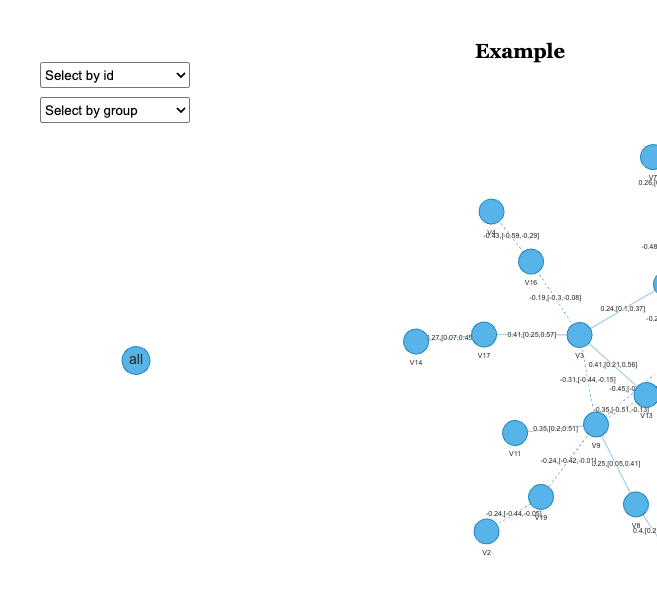
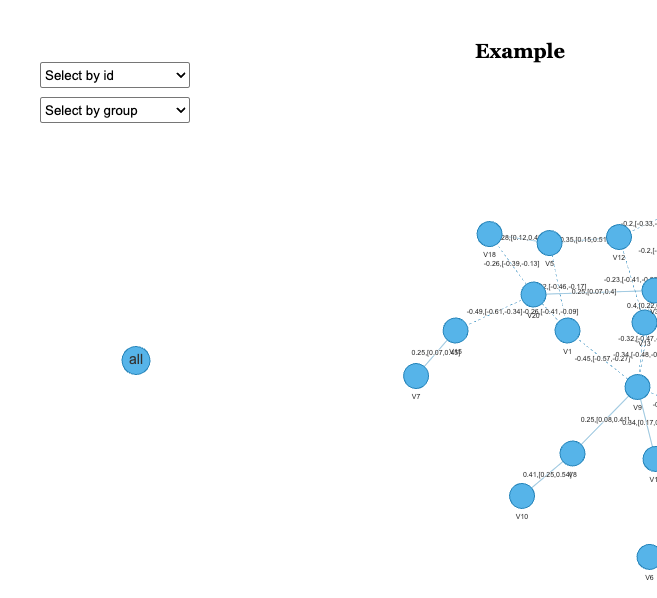
Add DOI

Changed region(s): [[0.6088, 0.3311, 1.0, 0.9632], [0.9741, 0.2408, 1.0, 0.3311]]

diff --git a/paper/paper.md b/paper/paper.md
@@ -5,15 +5,15 @@ authors:
   - name: Ziwei Huang
     orcid: 0009-0005-4879-8175
     affiliation: "1, 5"
-  
+
   - name: Zeyuan Song
     orcid: 0000-0002-7352-4177
     affiliation: "2, 3"
-  
+
   - name: Paola Sebastiani
     orcid: 0000-0001-6419-1545
     affiliation: "2, 3, 4"
-  
+
   - name: Stefano Monti
     orcid: 0000-0002-9376-0660
     affiliation: "5, 6, 7"
@@ -41,78 +41,102 @@ bibliography: references.bib
 
 # Summary
 
-RSNet is an open-source R package that provides a resampling-based framework for robust and interpretable network inference, designed to address the limited-sample-size challenges common in high-dimensional (e.g., ‘omics’) data. It supports both the estimation of partial correlation networks modeled as Gaussian networks [@whittaker2009graphical] and conditional Gaussian Bayesian networks for mixed data types that combine continuous and discrete variables [@lauritzen2001stable]. The framework incorporates multiple resampling strategies, including bootstrap, subsampling, and cluster-based approaches, to accommodate both independent and correlated (e.g., family-based) observations. To enhance interpretability, RSNet integrates graphlet-based topology analysis that captures higher-order connectivity and edge sign information, enabling single-node and subnetwork-level insights. Notably, RSNet is the first R package to efficiently construct signed graphlet degree vector matrices (GDVMs) in near-constant time for sparse networks, providing scalable analysis of higher-order network structure. Collectively, RSNet offers a versatile tool for statistically reliable and interpretable network inference in high-dimensional data.
+*RSNet* is an open-source R package that provides a resampling-based framework for robust and interpretable network inference, designed to address the limited-sample-size challenges common in high-dimensional (e.g., 'omics') data.
+It supports both the estimation of partial correlation networks modeled as Gaussian networks [@whittaker2009graphical] and conditional Gaussian Bayesian networks for mixed data types that combine continuous and discrete variables [@lauritzen2001stable].
+The framework incorporates multiple resampling strategies, including bootstrap, subsampling, and cluster-based approaches, to accommodate both independent and correlated (e.g., family-based) observations.
+To enhance interpretability, *RSNet* integrates graphlet-based topology analysis that captures higher-order connectivity and edge sign information, enabling single-node and subnetwork-level insights.
+Notably, *RSNet* is the first R package to efficiently construct signed graphlet degree vector matrices (GDVMs) in near-constant time for sparse networks, providing scalable analysis of higher-order network structure.
+Collectively, *RSNet* offers a versatile tool for statistically reliable and interpretable network inference in high-dimensional data.
+
 
 # Statement of need
 
-Network inference methods are widely used to model dependencies among variables in high-dimensional data, supporting discovery and hypothesis generation in diverse research domains [@federico2023structure; @fan2016overview; @friedman2008sparse; @friedman2000using]. Commonly applied approaches such as correlation or co-expression networks [@zhang2005general; @yang2014gene; @ruan2010general] are easy to implement but cannot distinguish direct from indirect dependencies [@federico2023structure]. In contrast, Gaussian networks, also known as partial correlation networks [@federico2023structure; @fan2016overview; @friedman2008sparse], and conditional Gaussian Bayesian networks (CGBNs)[@mcgeachie2014cgbayesnets; @bottcher2005learning] estimate conditional dependencies, offering a higher-resolution representation of complex systems. However, the reliability of inferred network structures is often compromised by the limited sample sizes in high-dimensional data, a challenge commonly referred to as the “small $n$, large $p$” problem, where $n$ denotes the number of samples and $p$ the number of variables [@federico2023structure; @friedman2008sparse; @friedman2000using; @kalisch2007estimating]. RSNet addresses this limitation by introducing a resampling-based framework that quantifies edge-level uncertainty and integrates information across multiple inferred networks to construct a robust consensus network. The framework supports both Gaussian networks for continuous data and CGBNs for mixed data types and can accommodate correlated or family-based observations [@song2025learning]. This design provides empirical confidence intervals, adjusted p-values, and edge-selection frequencies, offering a fine-grained assessment of network reliability and structure [@friedman2000using; @zhang2018silggm; @jankova2017honest].
+Network inference methods are widely used to model dependencies among variables in high-dimensional data, supporting discovery and hypothesis generation in diverse research domains [@federico2023structure; @fan2016overview; @friedman2008sparse; @friedman2000using].
+Commonly applied approaches such as correlation or co-expression networks [@zhang2005general; @yang2014gene; @ruan2010general] are straightforward to implement but cannot distinguish direct from indirect dependencies [@federico2023structure].
+In contrast, Gaussian networks, also known as partial correlation networks [@federico2023structure; @fan2016overview; @friedman2008sparse], and conditional Gaussian Bayesian networks (CGBNs) [@mcgeachie2014cgbayesnets; @bottcher2005learning] estimate conditional dependencies, offering a higher-resolution representation of complex systems.
+However, the reliability of inferred network structures is often compromised by the limited sample sizes in high-dimensional data, a challenge commonly referred to as the "small $n$, large $p$" problem, where $n$ denotes the number of samples and $p$ the number of variables [@federico2023structure; @friedman2008sparse; @friedman2000using; @kalisch2007estimating].
+*RSNet* addresses this limitation by introducing a resampling-based framework that quantifies edge-level uncertainty and integrates information across multiple inferred networks to construct a robust consensus network. The framework supports both Gaussian networks for continuous data and CGBNs for mixed data types and can accommodate correlated or family-based observations [@song2025learning]. This design provides empirical confidence intervals, adjusted p-values, and edge-selection frequencies, offering a fine-grained assessment of network reliability and structure [@friedman2000using; @zhang2018silggm; @jankova2017honest].
 
-In addition to improving reliability, RSNet enhances interpretability through graphlet-based topology analysis, which captures higher-order local connectivity patterns and incorporates edge sign information [@milenkovic2008uncovering; @das2019signed; @doria2020probabilistic]. These functionalities enable detailed examination of node-level structural roles and facilitate comparative analyses between networks inferred under different conditions [@tu2021differential; @gill2010statistical; @higgins2018differential]. Existing R packages for network inference do not support the construction of signed graphlet degree vector matrices (GDVMs), where brute-force enumeration has complexity greater than $O(p^{3})$, with $p$ denoting the network size. RSNet overcomes this barrier by combining state-of-the-art graphlet counting algorithms [@das2020efficient; @das2019algorithm; @hovcevar2016computation] with parallelization, establishing an efficient method to construct signed GDVMs in $O(∣d∣)$, where $∣d∣$ is the average degree, resulting in near-constant time complexity for sparse networks.
-
-
-
-# Implementation
-
-
-## Overview
-
-RSNet provides a unified, resampling-based framework for network inference and analysis that supports both independent and correlated datasets. For independent observations, resampling is performed at the sample level, while for correlated or family-based data, it is conducted at the cluster level to avoid spurious edge discoveries driven by within-cluster dependencies [@song2025learning]. Resampling yields an ensemble of inferred networks, which are subsequently integrated to construct a consensus network that assigns edge-level reliability estimates.
-
-For Gaussian networks, these estimates include empirical confidence intervals and nominal or adjusted p-values; for conditional Gaussian Bayesian networks, they correspond to edge-selection frequencies. The resulting consensus network forms the basis for downstream analyses such as centrality analysis, community detection, graphlet-based topology analysis, and differential connectivity analysis (Figure 1).
+In addition to improving reliability, *RSNet* enhances interpretability through graphlet-based topology analysis, which captures higher-order local connectivity patterns and incorporates edge sign information [@milenkovic2008uncovering; @das2019signed; @doria2020probabilistic].
+These functionalities enable detailed examination of node-level structural roles and facilitate comparative analyses between networks inferred under different conditions [@tu2021differential; @gill2010statistical; @higgins2018differential].
+Existing R packages for network inference do not support the construction of signed graphlet degree vector matrices (GDVMs), where brute-force enumeration has complexity greater than $O(p^{3})$, with $p$ denoting the network size.
+*RSNet* overcomes this barrier by combining state-of-the-art graphlet counting algorithms [@das2020efficient; @das2019algorithm; @hovcevar2016computation] with parallelization, establishing an efficient method to construct signed GDVMs in $O(|d|)$, where $|d|$ is the average degree, resulting in near-constant time complexity for sparse networks.
 
 
-RSNet is organized into modular functions that enable flexible, end-to-end workflows from network inference to higher-order structural analysis. The framework supports parallel computing to accelerate large-scale analyses, making RSNet a reproducible, scalable, and efficient platform for high-dimensional network inference.
+# State of the field
 
-## Resampling-based framework
+*RSNet* provides a unified, resampling-based framework for network inference and analysis that supports both independent and correlated datasets.
+While packages with similar functionalities exist, they typically either focus on specific components of the workflow or do not support resampling-based strategies.
+These limitations can compromise the reliability of inferred network structures in high-dimensional settings with limited sample sizes and noisy data, as well as the interpretability of downstream analyses.
+In addition, the lack of support for cluster-based resampling approaches can lead to underestimation of variability, hence a false positive inflation, when analyzing correlated or family-based data [@song2025learning].
 
-RSNet implements multiple resampling strategies to enhance the stability and reliability of inferred network structures. For both Gaussian networks and conditional Gaussian Bayesian networks (CGBNs), users can choose among four general approaches: (1) unstratified bootstrap, (2) unstratified subsampling, (3) stratified bootstrap, and (4) stratified subsampling, depending on data characteristics and study design. 
-
-For Gaussian networks, RSNet additionally supports cluster-based resampling methods designed for correlated or family-based datasets, including (1) cluster bootstrap, which samples entire clusters with replacement to preserve intra-cluster dependencies, and (2) fractional cluster bootstrap, which samples a subset of clusters with replacement. These procedures are implemented in the function “ensemble_ggm()”, which leverages inference algorithms from the *SILGGM* package [@zhang2018silggm]. For CGBNs, the function “ensemble_cgbn()”, provides analogous resampling-based network inference using algorithms from the *RHugin* package [@kalisch2007estimating].
-
-The resampling module supports parallel computing, enabling efficient large-scale network inference and ensuring scalability across high-dimensional datasets.
-
-## Consensus network construction
-
-The ensemble of networks generated from resampling iterations is integrated to construct a consensus network, thereby mitigating noise and reducing numerical instability. The Gaussian consensus network is constructed using the function “consensus_net_ggm()”, which computes confidence intervals and both nominal and adjusted p-values for each edge, while supporting thresholding based on effect size and statistical significance. The conditional Gaussian Bayesian consensus network is generated using “consensus_net_cgbn()”, which calculates selection frequencies, the proportion of resampling iterations in which an edge is identified, and outputs a directed acyclic graph (DAG). The method also supports computing Markov-blanket [@friedman2000using; @gao2016efficient] frequencies between incident nodes, which can be used to generate an undirected network representation.
-
-## Graphlet degree vector matrix and graphlet correlation matrix
-
-Graphlets are small connected non-isomorphic induced subgraphs that capture higher-order connectivity patterns within a network [@milenkovic2008uncovering]. For graphlets containing between two and four nodes, there are eight unique structures and fifteen corresponding automorphism orbits (Figure 2A). The graphlet degree vector (GDV) of a node counts how many times the node participates in each orbit, generalizing the concept of node degree to higher-order structures [@milenkovic2008uncovering]. Collectively, these vectors form a graphlet degree vector matrix (GDVM) of dimension $p \times O$, where $p$ denotes the number of nodes and $O$ the number of orbits. 
-
-RSNet extends this framework to signed networks, incorporating edge sign information (positive or negative partial correlations) into graphlet enumeration [@das2020efficient]. Notably, the number of graphlets of size up to four and their orbits in unsigned networks is equivalent to the number of graphlets of size up to three in signed networks (Figure 2B) [@das2019algorithm], allowing a concise but informative representation of signed topologies [@das2020efficient; @das2019algorithm].
-
-The graphlet correlation matrix (GCM) provides a compact, embedding-based representation of network structure [@yaverouglu2014revealing]. It is constructed by computing pairwise Spearman correlations between the columns of the GDVM, yielding an $O \times O$ matrix that captures inter-orbit relationships [@yaverouglu2014revealing]. This embedding enables meaningful comparisons between networks of different sizes or densities on a common structural scale. The functions “gdvm_gcm()” and “signed_gdvm_gcm()” implement the computation of both GDVMs and GCMs for unsigned and signed networks, respectively.
-
-## Differential connectivity analysis
-
-Differential connectivity analysis is an essential application in network-based studies, designed to characterize the rewiring patterns of interactive entities across different conditions [@tu2021differential; @gill2010statistical; @zhang2018diffgraph]. Unlike univariate analyses that evaluate each feature independently, this approach captures integrative, system-level signals arising from the collective behavior of individual entities, thereby providing complementary insights into the underlying mechanisms. 
-
-Accurate estimation of the null distribution is critical for assessing statistical significance [@gill2010statistical]. However, for most network-based statistics, such as average shortest path length, modularity, and centrality measures, the null distribution is challenging to derive analytically [@shojaie2021differential]. Consequently, resampling-based approaches are indispensable for empirically estimating the null distribution [@pollard2004choice; @vavsa2022null]. RSNet supports permutation [@pesarin2010permutation; @van2023comparing]- and bootstrap-based [@karlsson2009bootstrap; @efron1982jackknife] null distribution generation for a broad range of network statistics, including standard metrics (e.g., centralities, modularity, clustering coefficient) and GDV distances to enable differential comparisons at the single-node level. These procedures are implemented in the functions “null_ggm()”, “diff_centrality()” and “diff_gdv()”.
+For Gaussian network structure inference, packages such as *glasso* [@friedman2008sparse] and *huge* [@zhao2012huge] provide efficient estimation of precision matrices and corresponding network structures, but do not offer statistical inference (e.g., adjusted p-values and/or confidence intervals) for individual edges.
+Methods implemented in *SILGGM* [@zhang2018silggm] extend this framework by providing edge-level inference through asymptotic normality approximations, enabling the estimation of adjusted p-values and confidence intervals.
+However, these approaches rely on single-network estimation and do not incorporate resampling-based strategies to assess stability. *BDgraph* [@mohammadi2017introduction] uses Bayesian approaches to estimate network structures by sampling from the posterior distribution and to provide edge inclusion probabilities.
+While these quantify uncertainty in a Bayesian sense, they are not directly comparable to frequentist measures and primarily emphasize network structure rather than edge-level statistical significance.
 
 
-## Other functionalities
+For conditional Gaussian Bayesian networks, *RHugin* [@kalisch2007estimating] implements efficient structure learning (e.g., PC algorithm) for mixed data types.
+However, it does not support resampling-based strategies and does not provide measures of stability such as edge selection frequencies or frequencies of higher-order dependencies (e.g., Markov blankets [@gao2016efficient]).
 
-In addition to network inference, consensus construction, and graphlet-based analysis, RSNet provides a suite of complementary tools for network analysis. Standard centrality measures, including degree, strength, eigenvector, betweenness, closeness, and PageRank centralities [@barabasi2004network], are implemented in the function “centrality()”, enabling assessment of node importance. RSNet also supports community detection using the Louvain [@guillaume2008fast], Leiden [@traag2019louvain], and Walktrap [pons2005computing] algorithms, implemented in the function “community_detection()”, to identify modular structures within networks.
+
+For downstream network analysis, *igraph* [@csardi2006igraph] provides a comprehensive suite of tools, including centrality analysis and community detection.
+However, it does not support graphlet-based analysis or the construction of GDVMs. *ORCA* [@hovcevar2016computation] provides one of the most efficient implementations for GDVM construction but is limited to unsigned networks and does not support signed graphlet analysis.
+
+*RSNet* addresses these limitations by integrating existing methods within a resampling and parallelized framework, providing edge-level empirical confidence intervals, adjusted p-values, and edge-selection frequencies.
+This approach offers a fine-grained assessment of network reliability while maintaining computational efficiency.
+In addition, *RSNet* offers a suite of tools for downstream analysis, unifying network inference and structural interpretation within a single workflow implemented in an open-source R package.
+
+
+# Software design
+
+*RSNet* is designed as a modular, resampling-based framework that enables flexible, end-to-end workflows from network inference to higher-order structural analysis.
+For Gaussian networks, these estimates include empirical confidence intervals and nominal or adjusted p-values; for conditional Gaussian Bayesian networks, they correspond to edge-selection frequencies.
+The resulting consensus network forms the basis for downstream analyses such as centrality analysis, community detection, graphlet-based topology analysis, and differential connectivity analysis (Figure 1).
+
+A central design choice is the use of resampling-based strategies instead of single-network estimation.
+This approach explicitly quantifies edge-level uncertainty and improves robustness in high-dimensional, limited-sample-size settings.
+*RSNet* implements multiple resampling strategies. For both Gaussian networks and conditional Gaussian Bayesian networks (CGBNs), users can choose among four general approaches: (1) unstratified bootstrap, (2) unstratified subsampling, (3) stratified bootstrap, and (4) stratified subsampling, depending on data characteristics and study design.
+In addition, *RSNet* supports cluster-based resampling methods for correlated or family-based datasets in Gaussian networks, including (1) cluster bootstrap, which samples entire clusters with replacement to preserve intra-cluster dependencies, and (2) fractional cluster bootstrap, which samples a subset of clusters with replacement.
+These procedures are implemented in the function `ensemble_ggm()`, which leverages inference algorithms from the *SILGGM* package [@zhang2018silggm].
+For CGBNs, the function `ensemble_cgbn()` provides analogous resampling-based network inference using algorithms from the *RHugin* package [@kalisch2007estimating].
+
+Parallelization is integrated as a core design principle across both network inference and higher-order topological analysis.
+In addition to accelerating the resampling-based inference pipeline, parallel computing is extended to the construction of GDVMs, enabling scalable analysis of graphlet-based representations that are otherwise computationally intensive.
+Beyond network inference, *RSNet* supports a range of downstream analyses on the consensus network, including graphlet-based topology analysis, differential connectivity analysis, centrality analysis, and community detection, providing a unified framework for both statistical inference and structural interpretation.
+
+# Research impact statement
+
+*RSNet* has been applied to real-world biological datasets, including aging and longevity cohorts such as the New England Centenarian Study [@sebastiani2021protein; @monti2026metabolomic], the Long Life Family Study [@li2026whole], and Integrative Longevity Omics [@li2026whole].
+In addition, *RSNet* has been applied to disease-related datasets, including late-onset Alzheimer's disease (LOAD) [@zhang2013integrated] and cancer cohorts from The Cancer Genome Atlas (TCGA) [@cancer2013cancer]. These applications demonstrate the utility of the framework for robust network inference and downstream topological analysis across diverse biological settings.
+*RSNet* is released as open-source software with documented functions and reproducible workflows to support transparent and reliable use.
+
 
 # Discussion
 
-RSNet provides a versatile and scalable R package for resampling-based network inference, designed to address the challenges of limited sample size in high-dimensional datasets. By integrating both Gaussian networks and conditional Gaussian Bayesian networks, RSNet supports structure learning for continuous and mixed data types within a unified framework.
-The package enhances interpretability by integrating standard network analysis tools with graphlet-based methods for higher-order topological characterization. To the best of our knowledge, RSNet is the first R package to implement the construction of a signed GDVM in approximately constant time for sparse networks.
-To conclude, RSNet facilitates reproducible, statistically robust, and interpretable network analysis. Its modular and parallelized design supports large-scale applications while maintaining transparency and flexibility, making it a user-friendly open-source resource for high-dimensional network inference and comparative structural analysis.
+*RSNet* provides a versatile and scalable R package for resampling-based network inference, designed to address the challenges of limited sample size in high dimensional datasets.
+By integrating both Gaussian networks and conditional Gaussian Bayesian networks, *RSNet* supports structure learning for continuous and mixed data types within a unified framework.
+
+The package enhances interpretability by integrating standard network analysis tools with graphlet-based methods for higher-order topological characterization.
+To the best of our knowledge, *RSNet* is the first R package to implement the construction of a signed GDVM in approximately constant time for sparse networks.
+
+To conclude, *RSNet* facilitates reproducible, statistically robust, and interpretable network analysis. Its modular and parallelized design supports large-scale applications while maintaining transparency and flexibility, making it a user-friendly open-source resource for high-dimensional network inference and comparative structural analysis.
+
+# AI usage disclosure
+
+Generative AI tools were used to assist with minor aspects of manuscript preparation, including language editing and code formatting.
+All scientific content, methodological design, and implementation were developed by the author. Any AI-assisted outputs were carefully reviewed and validated to ensure accuracy and consistency with the intended methods and results.
 
 # Figures
 
-![**Overview of RSNet.**  RSNet accepts a sample-by-feature dataset and allows users to specify whether observations are independent or correlated. The resampling framework generates an ensemble of weighted or binary adjacency matrices over m iterations, which are subsequently integrated into a consensus network that serves as the basis for downstream analyses.](figures/Figure1.png)
-
-![**Unsigned and signed graphlets.** (A) The 2-, 3-, and 4-node graphlets G_0,G_1,…, G_8 and their automorphism orbits 0, 1, 2, …, 14. (B) The 2- and 3-node signed graphlets G_0,G_1,…, G_8 and their automorphism orbits 0, 1, 2, …, 14. Positive relationships are represented by black lines, and negative relationships are represented by red lines.](figures/Figure2.png)
-
+![**Overview of *RSNet*.** *RSNet* accepts a sample-by-feature dataset and allows users to specify whether observations are independent or correlated. The resampling framework generates an ensemble of weighted or binary adjacency matrices over $m$ iterations, which are subsequently integrated into a consensus network that serves as the basis for downstream analyses.](figures/Figure1.png)
 
 # Availability
 
-The latest version of the RSNet package along with additional information on the installation process can be found on github.com/montilab/RSNet. 
+The latest version of the *RSNet* package along with additional information on the installation process can be found on github.com/montilab/RSNet (DOI: 10.5281/zenodo.20122935).
 
 # Funding
 
-This work was supported in part by the National Institutes of Health, NIA cooperative agreements U19 AG023122-16 and UH3 AG064704, and NIDCR R01 R01DE031831.  The findings and conclusions presented in this paper are those of the author(s) and do not necessarily reflect the views of the NIH.
+This work was supported in part by the National Institutes of Health, NIA cooperative agreements U19 AG023122-16 and UH3 AG064704, and NIDCR R01 R01DE031831. The findings and conclusions presented in this paper are those of the author(s) and do not necessarily reflect the views of the NIH.
 
 # References

diff --git a/README.md b/README.md
@@ -3,10 +3,13 @@
 
 # RSNet
 
-![build](https://github.com/montilab/RSNet/workflows/rcmdcheck/badge.svg)
-![Gitter](https://img.shields.io/gitter/room/montilab/RSNet) ![GitHub
-issues](https://img.shields.io/github/issues/montilab/RSNet) ![GitHub
-last commit](https://img.shields.io/github/last-commit/montilab/RSNet)
+[![build](https://github.com/montilab/RSNet/actions/workflows/R-CMD-check.yaml/badge.svg)](https://github.com/montilab/RSNet/actions/workflows/R-CMD-check.yaml)
+[![Gitter](https://img.shields.io/gitter/room/montilab/RSNet)](https://gitter.im/montilab/RSNet)
+[![GitHub
+issues](https://img.shields.io/github/issues/montilab/RSNet)](https://github.com/montilab/RSNet/issues)
+[![GitHub last
+commit](https://img.shields.io/github/last-commit/montilab/RSNet)](https://github.com/montilab/RSNet)
+[![DOI](https://zenodo.org/badge/DOI/10.5281/zenodo.20122935.svg)](https://doi.org/10.5281/zenodo.20122935)
 
 **RSNet** is an R package that implements a resampling-based framework
 for structure learning and analysis of partial correlation networks
